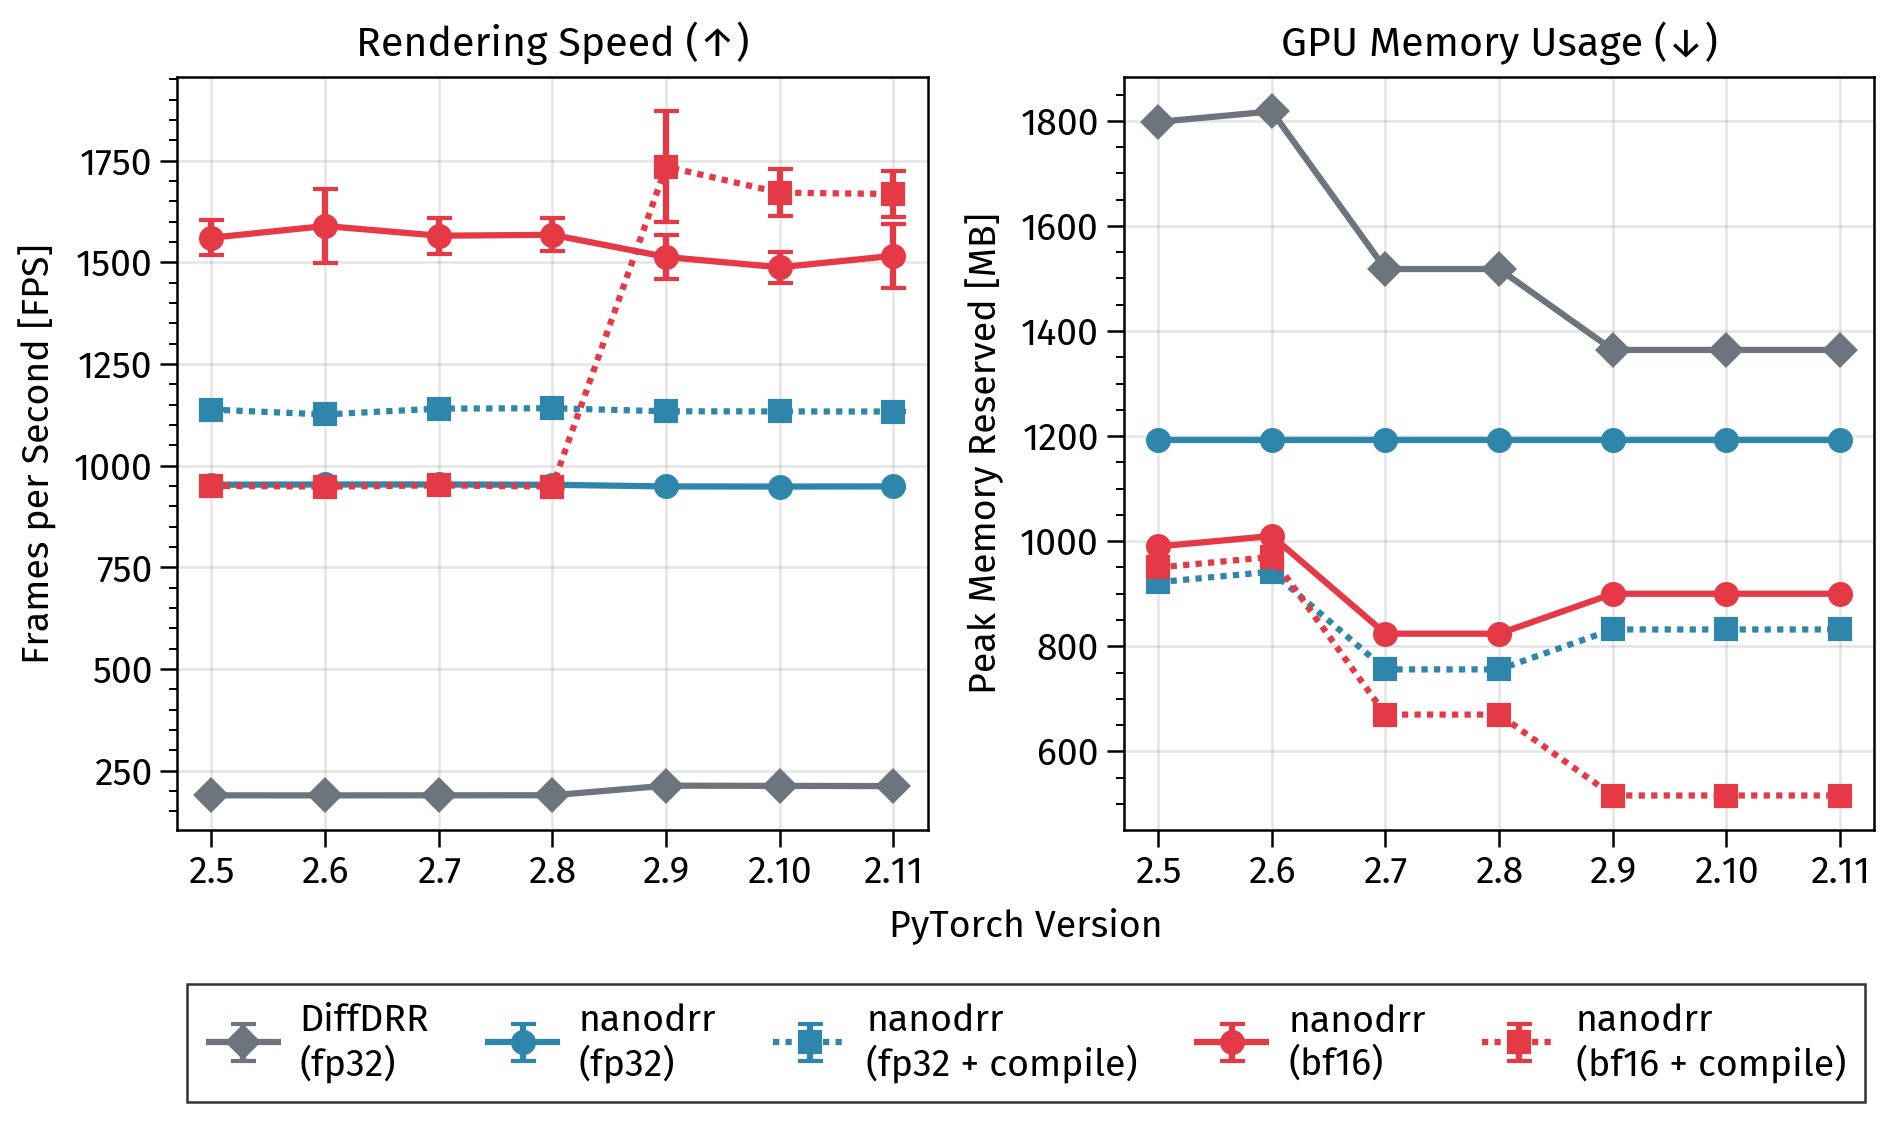
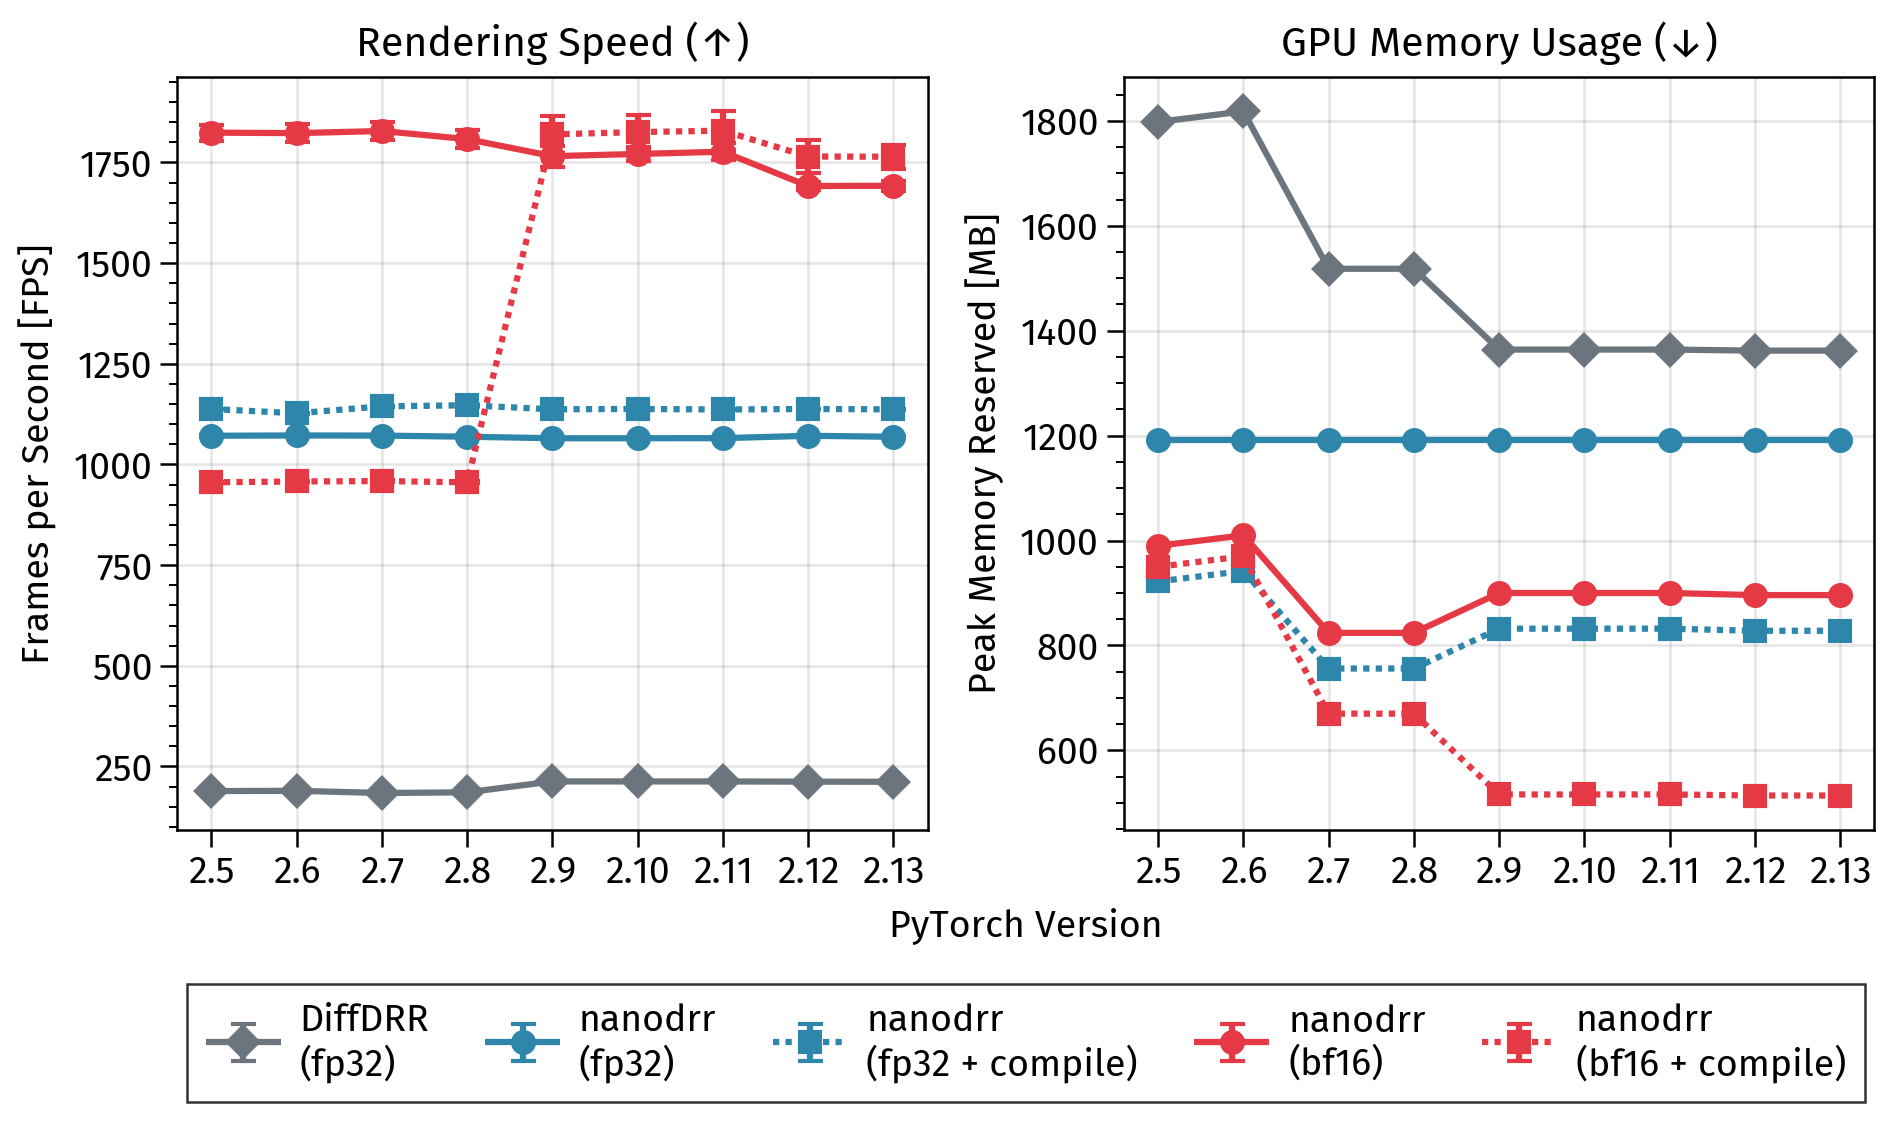
Optimize step size rescaling (#86)
* Add latest pytorch versions to benchmark

* Reduce ops necessary for stepsize scaling

* Update benchmarks

diff --git a/src/nanodrr/drr/renderer.py b/src/nanodrr/drr/renderer.py
@@ -84,10 +84,10 @@ def render(
         mode="bilinear",
         align_corners=False,
     )[:, 0, ..., 0]  # [B, n_samples, N]
-    img = img * step_size[:, None, :]
 
     if C == 1:  # Compute whole-volume ray marching
-        return img.sum(dim=1, keepdim=True).reshape(B, C, height, width)
+        img = img.sum(dim=1, keepdim=True) * step_size[:, None, :]
+        return img.reshape(B, C, height, width)
 
     # Sample the mask
     idx = F.grid_sample(
@@ -100,6 +100,7 @@ def render(
     # Compute the structure-specific ray marching
     out = torch.zeros(B, C, N, device=img.device, dtype=img.dtype)
     out.scatter_add_(1, idx, img)
+    out = out * step_size[:, None, :]
     return out.reshape(B, C, height, width)
 
 

diff --git a/README.md b/README.md
@@ -35,9 +35,9 @@ pip install "nanodrr[all]"    # All extras
 ## Benchmarks
 
 > [!IMPORTANT]
-> - **~5× faster** than [`DiffDRR`](https://github.com/eigenvivek/DiffDRR) out of the box, without compilation (946 FPS vs 213 FPS)
-> - **~8× faster** with `torch.compile` and `bfloat16` on `pytorch>=2.9` (1,650 FPS vs 213 FPS)
-> - **~2.5× less memory** than `DiffDRR` (516 MB vs 1,344 MB peak reserved with `bfloat16` + compile)
+> - **~5× faster** than [`DiffDRR`](https://github.com/eigenvivek/DiffDRR) out of the box, without compilation (1,069 FPS vs 212 FPS)
+> - **~8× faster** with `torch.compile` and `bfloat16` on `pytorch>=2.9` (1,764 FPS vs 212 FPS)
+> - **~2.5× less memory** than `DiffDRR` (514 MB vs 1,362 MB peak reserved with `bfloat16` + compile)
 
 <picture>
   <source media="(prefers-color-scheme: dark)" srcset="docs/assets/images/benchmark_dark.png">
